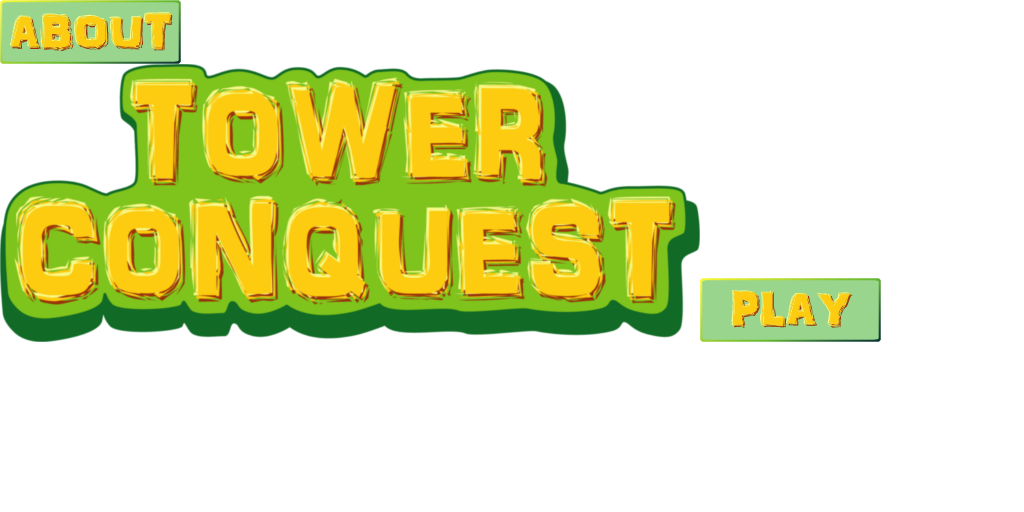
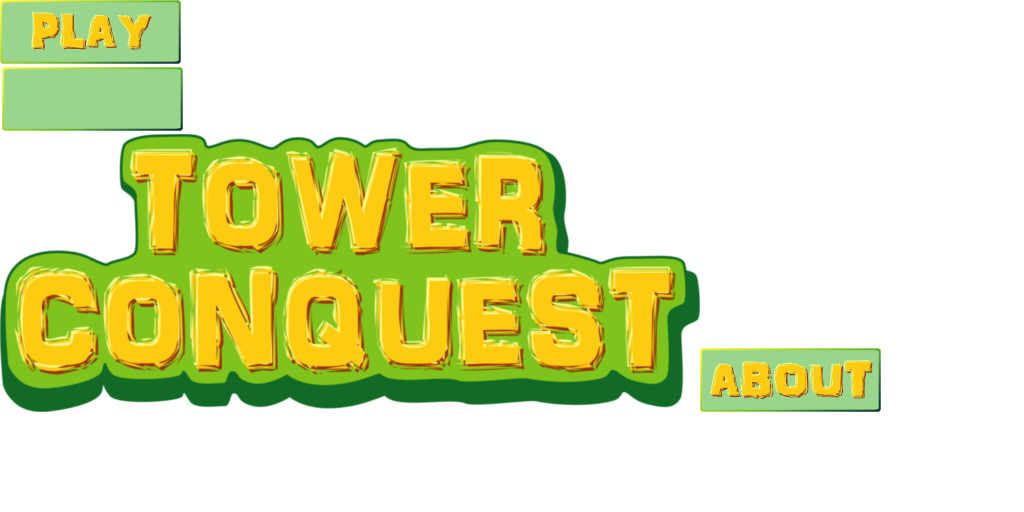
update

diff --git a/core/src/com/noxer/tower/screens/FinishScreen.java b/core/src/com/noxer/tower/screens/FinishScreen.java
@@ -1,8 +1,6 @@
 package com.noxer.tower.screens;
 
 
-
-
 import com.badlogic.gdx.Gdx;
 import com.badlogic.gdx.Screen;
 import com.badlogic.gdx.graphics.GL20;
@@ -16,15 +14,16 @@ import com.badlogic.gdx.scenes.scene2d.ui.ImageButton;
 import com.badlogic.gdx.scenes.scene2d.ui.Skin;
 import com.badlogic.gdx.scenes.scene2d.ui.Table;
 import com.badlogic.gdx.scenes.scene2d.ui.ImageButton.ImageButtonStyle;
+import com.badlogic.gdx.scenes.scene2d.ui.TextButton;
 import com.badlogic.gdx.scenes.scene2d.utils.ClickListener;
 import com.badlogic.gdx.scenes.scene2d.utils.Drawable;
 import com.badlogic.gdx.utils.viewport.StretchViewport;
 import com.noxer.tower.TowerConquest;
 
-public class MainMenuScreen implements Screen {
+public class FinishScreen implements Screen {
 
 	final TowerConquest game;
-	final MainMenuScreen mmScreen;
+	final FinishScreen mmScreen;
 	private TextureAtlas atlas, titulos;
 	protected Skin skin, skinTitulos;
 	private Stage stage;
@@ -32,14 +31,16 @@ public class MainMenuScreen implements Screen {
 	//private Label heading;
 	private Image heading;
 	//private TextButton buttonPlay, buttonExit;
-	private ImageButton play, about;
+	private TextButton play;
 	protected Sprite background;
 	//private List<String> list;
 	//private ScrollPane scrollPane;
+	private boolean ganado;
 	
-    public MainMenuScreen(final TowerConquest gam) {
+    public FinishScreen(final TowerConquest gam, boolean ganado) {
         game = gam;
         mmScreen = this;
+        this.ganado = !ganado;
     }
     
 	@Override
@@ -50,63 +51,29 @@ public class MainMenuScreen implements Screen {
 		atlas = new TextureAtlas("skins/userInterface.pack");
 		titulos = new TextureAtlas("skins/titulos.pack");
 		skin = new Skin(Gdx.files.internal("skins/userInterface.json"), atlas);
-		skinTitulos = new Skin(titulos);
+		skinTitulos = new Skin(Gdx.files.internal("skins/titulos.json"), titulos);
 		table = new Table(skin);
 		table.setBounds(0, 0, 800, 480);
 		
-		/*buttonPlay = new TextButton("PLAY", skin, "mainMenuBlack");
-		buttonPlay.pad(20);
-		buttonPlay.addListener(new ClickListener(){
-			@Override
-			public void clicked(InputEvent event, float x, float y) {
-				//game.setScreen(new testGame(game));
-	            //dispose();
-				game.setScreen(new StageSelector(mmScreen));
-			}
-		});
+		//play = new TextButton("PLAY", skinTitulos, "mainMenuBlack");
 		
-		buttonExit = new TextButton("SHOP", skin, "mainMenuBlack");
-		buttonExit.pad(20);
-		buttonExit.addListener(new ClickListener(){
-			@Override
-			public void clicked(InputEvent event, float x, float y) {
-				dispose();
-	            Gdx.app.exit();
-			}
-		});*/
+		if (ganado) 
+			play = new TextButton("You WON!\nClick to go Back", skinTitulos, "mainMenuBlack");
 		
-		ImageButtonStyle b = new ImageButtonStyle();
-		b.imageUp = skinTitulos.getDrawable("PLAY_TC");
-		//b.imageDown = skin2.getDrawable("options");
-		b.pressedOffsetX = 1;
-		b.pressedOffsetY = -1;
-		b.imageUp.setMinHeight(85);
-		b.imageUp.setMinWidth(115);
-		play = new ImageButton(b);
+		else 
+			play = new TextButton("You lost.\nClick to go Back", skinTitulos, "mainMenuBlack");
+		 
+		play.getStyle().font.setColor(0.7411f, 0.8f, 0.1137f, 1.0f);//fontColor.set(0.7411f, 0.8f, 0.1137f, 1.0f);//0.7411, "g": 0.8, "b": 0.1137
+		
 		play.addListener(new ClickListener(){
 			@Override
 			public void clicked(InputEvent event, float x, float y) {
 				//game.setScreen(new testGame(game));
 	            //dispose();
-				game.setScreen(new StageSelector(mmScreen));
+				game.setScreen(new MainMenuScreen(game));
 			}
 		});
 		
-		ImageButtonStyle bb = new ImageButtonStyle();
-		bb.imageUp = skinTitulos.getDrawable("ABOUT_TC");
-		//b.imageDown = skin2.getDrawable("options");
-		bb.pressedOffsetX = 1;
-		bb.pressedOffsetY = -1;
-		bb.imageUp.setMinHeight(85);
-		bb.imageUp.setMinWidth(115);
-		about = new ImageButton(bb);
-		about.addListener(new ClickListener(){
-			@Override
-			public void clicked(InputEvent event, float x, float y) {
-				dispose();
-	            Gdx.app.exit();
-			}
-		});
 		
 		//heading = new Label("Tower Conquest", skin, "default");
 		//heading.setFontScale(2);
@@ -121,8 +88,6 @@ public class MainMenuScreen implements Screen {
 		table.row();
 		table.add(play);
 		table.getCell(play).spaceBottom(15);
-		table.row();
-		table.add(about);
 		//table.debug();
 		//table.setOrigin(table.getWidth()/2, table.getHeight()/2);
 		table.setFillParent(true);

diff --git a/core/src/com/noxer/tower/screens/testGame.java b/core/src/com/noxer/tower/screens/testGame.java
@@ -61,12 +61,13 @@ public abstract class testGame implements Screen {
 	private ScrollPane scrollPane;
 	private Skin skin;
 	protected OpcionesPartida ops;
-	private boolean firstTime, dead;
+	private boolean firstTime, deadOwn, deadEnemy;
 	
 	public testGame(final TowerConquest game) {
 		this.game = game;
 		float w = Gdx.graphics.getWidth();
-		dead = false;
+		deadOwn = false;
+		deadEnemy = false;
 		touchPos = new Vector3();
 		world = new World(new Vector2(0, 0),true);
 		world.setContactListener(new ContListener(this));
@@ -148,7 +149,9 @@ public abstract class testGame implements Screen {
 	@Override
 	public void render(float delta) {
 		delta = Math.min(0.06f, delta);
-		if (!dead){
+		
+		if (!deadOwn && !deadEnemy){
+			dead();
 			Gdx.gl.glViewport(0, 0, Gdx.graphics.getWidth(), Gdx.graphics.getHeight());
 			getRenderingCoords();
 			Gdx.gl.glClearColor(0, 0, 0, 1);
@@ -195,17 +198,22 @@ public abstract class testGame implements Screen {
 			stage.act(delta);
 			stage.draw();
 		}
+		else{
+			game.setScreen(new FinishScreen(game, deadOwn));
+			dispose();
+		}
 	}
 	
 	
 	private void dead(){
-		dead = true;
+		deadOwn = true;
+		deadEnemy = true;
 		for (Ball b : ownBalls){
-			if (b.alive) dead = false;
+			if (b.alive) deadOwn = false;
 		}
-		if (dead)
+		if (!deadOwn)
 			for (Ball b : enemyBalls)
-				if (b.alive) dead = false;
+				if (b.alive) deadEnemy = false;
 	}
 	
 	//ACTUALIZA LAS COORDENADAS PARA SABER DONDE PINTAR
@@ -241,17 +249,17 @@ public abstract class testGame implements Screen {
     }
 
     public void dispose () { 
-    	game.batch.dispose();
+    	//game.batch.dispose();
     	map.dispose();
-    	renderer.dispose();
+    	//renderer.dispose();
     	
     	//balls[1].getTexture().dispose();//dispose all textures
     	controller.Dispose();
-    	stage.dispose();
-    	world.dispose();
+    	//stage.dispose();
+    	//world.dispose();
     	gameUI.dispose();
     	entities.dispose();
-    	debugRenderer.dispose();
+    	//debugRenderer.dispose();
     }
 
 	@Override

diff --git a/core/src/com/noxer/tower/screens/StageSelector.java b/core/src/com/noxer/tower/screens/StageSelector.java
@@ -88,7 +88,7 @@ public class StageSelector implements Screen {
 		Gdx.gl.glClear(GL20.GL_COLOR_BUFFER_BIT);
 		stage.act(delta);
 		stage.draw();
-		table.debugTable();
+		//table.debugTable();
 	}
 
 	@Override
